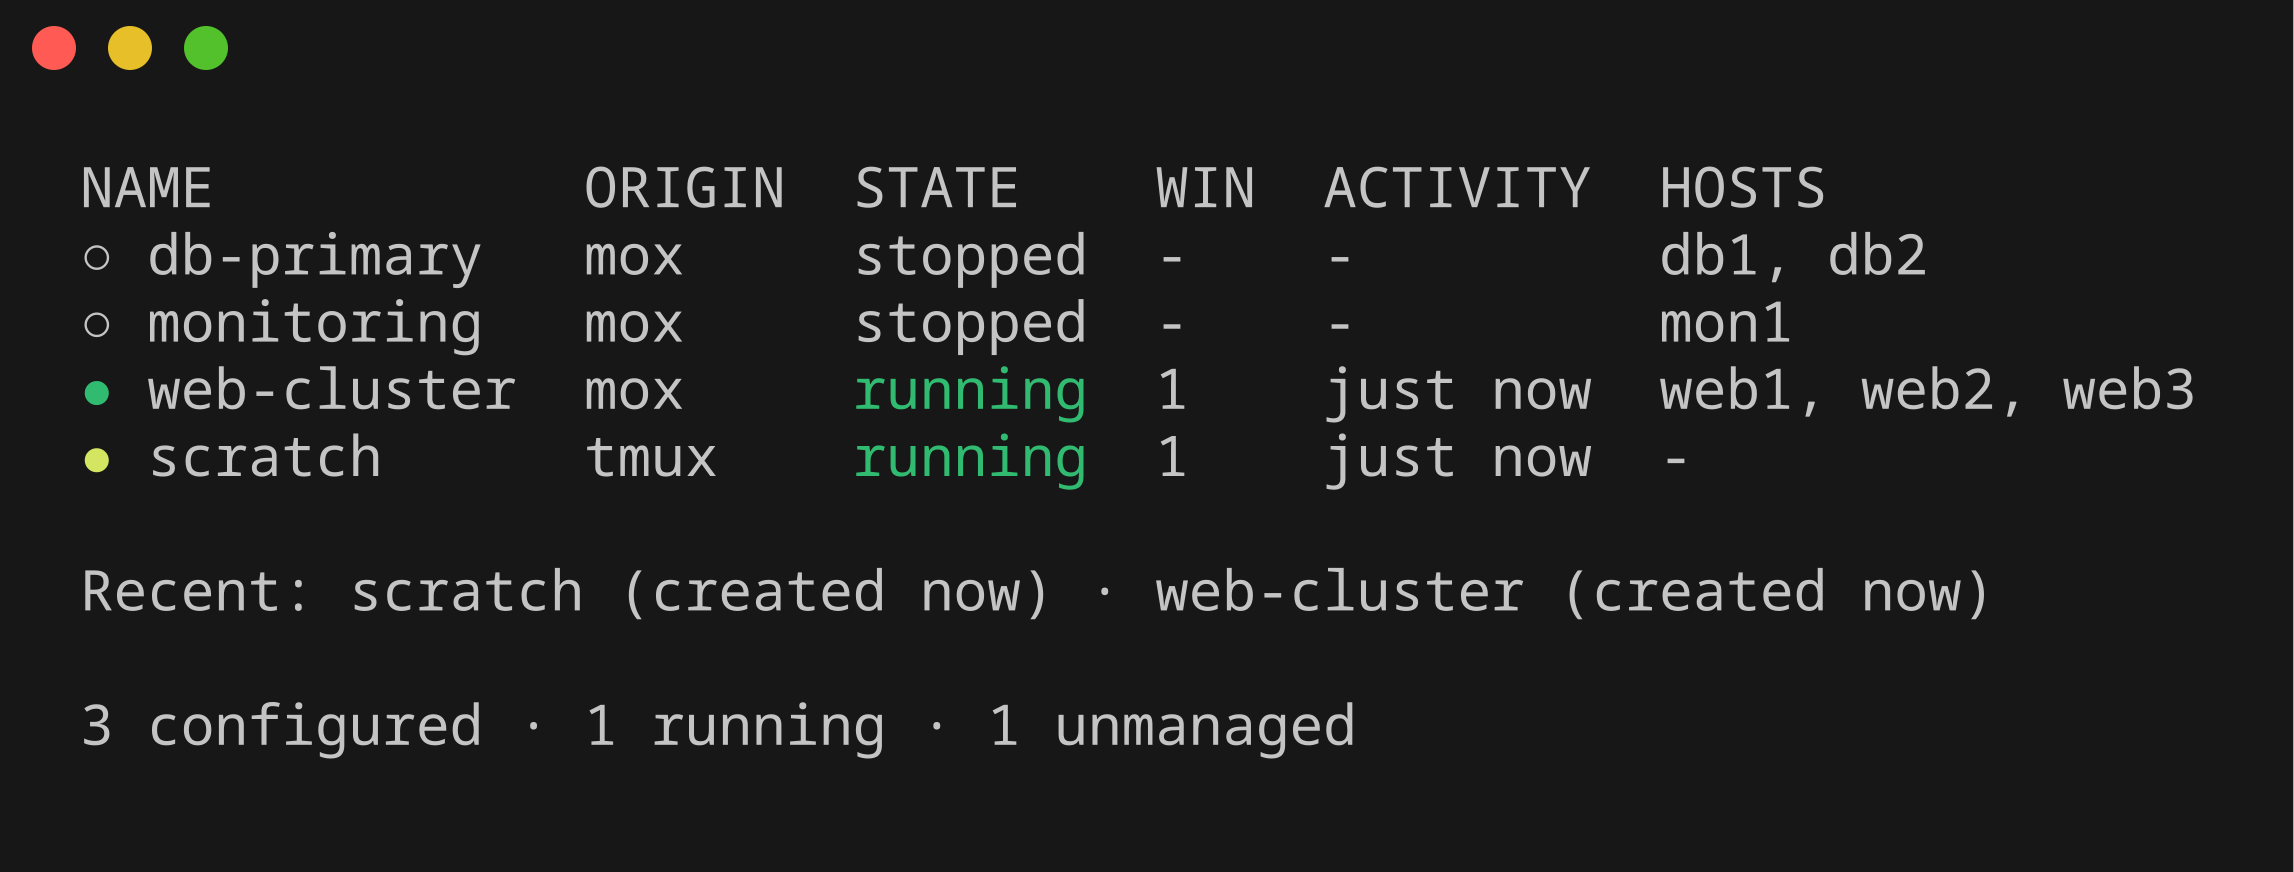
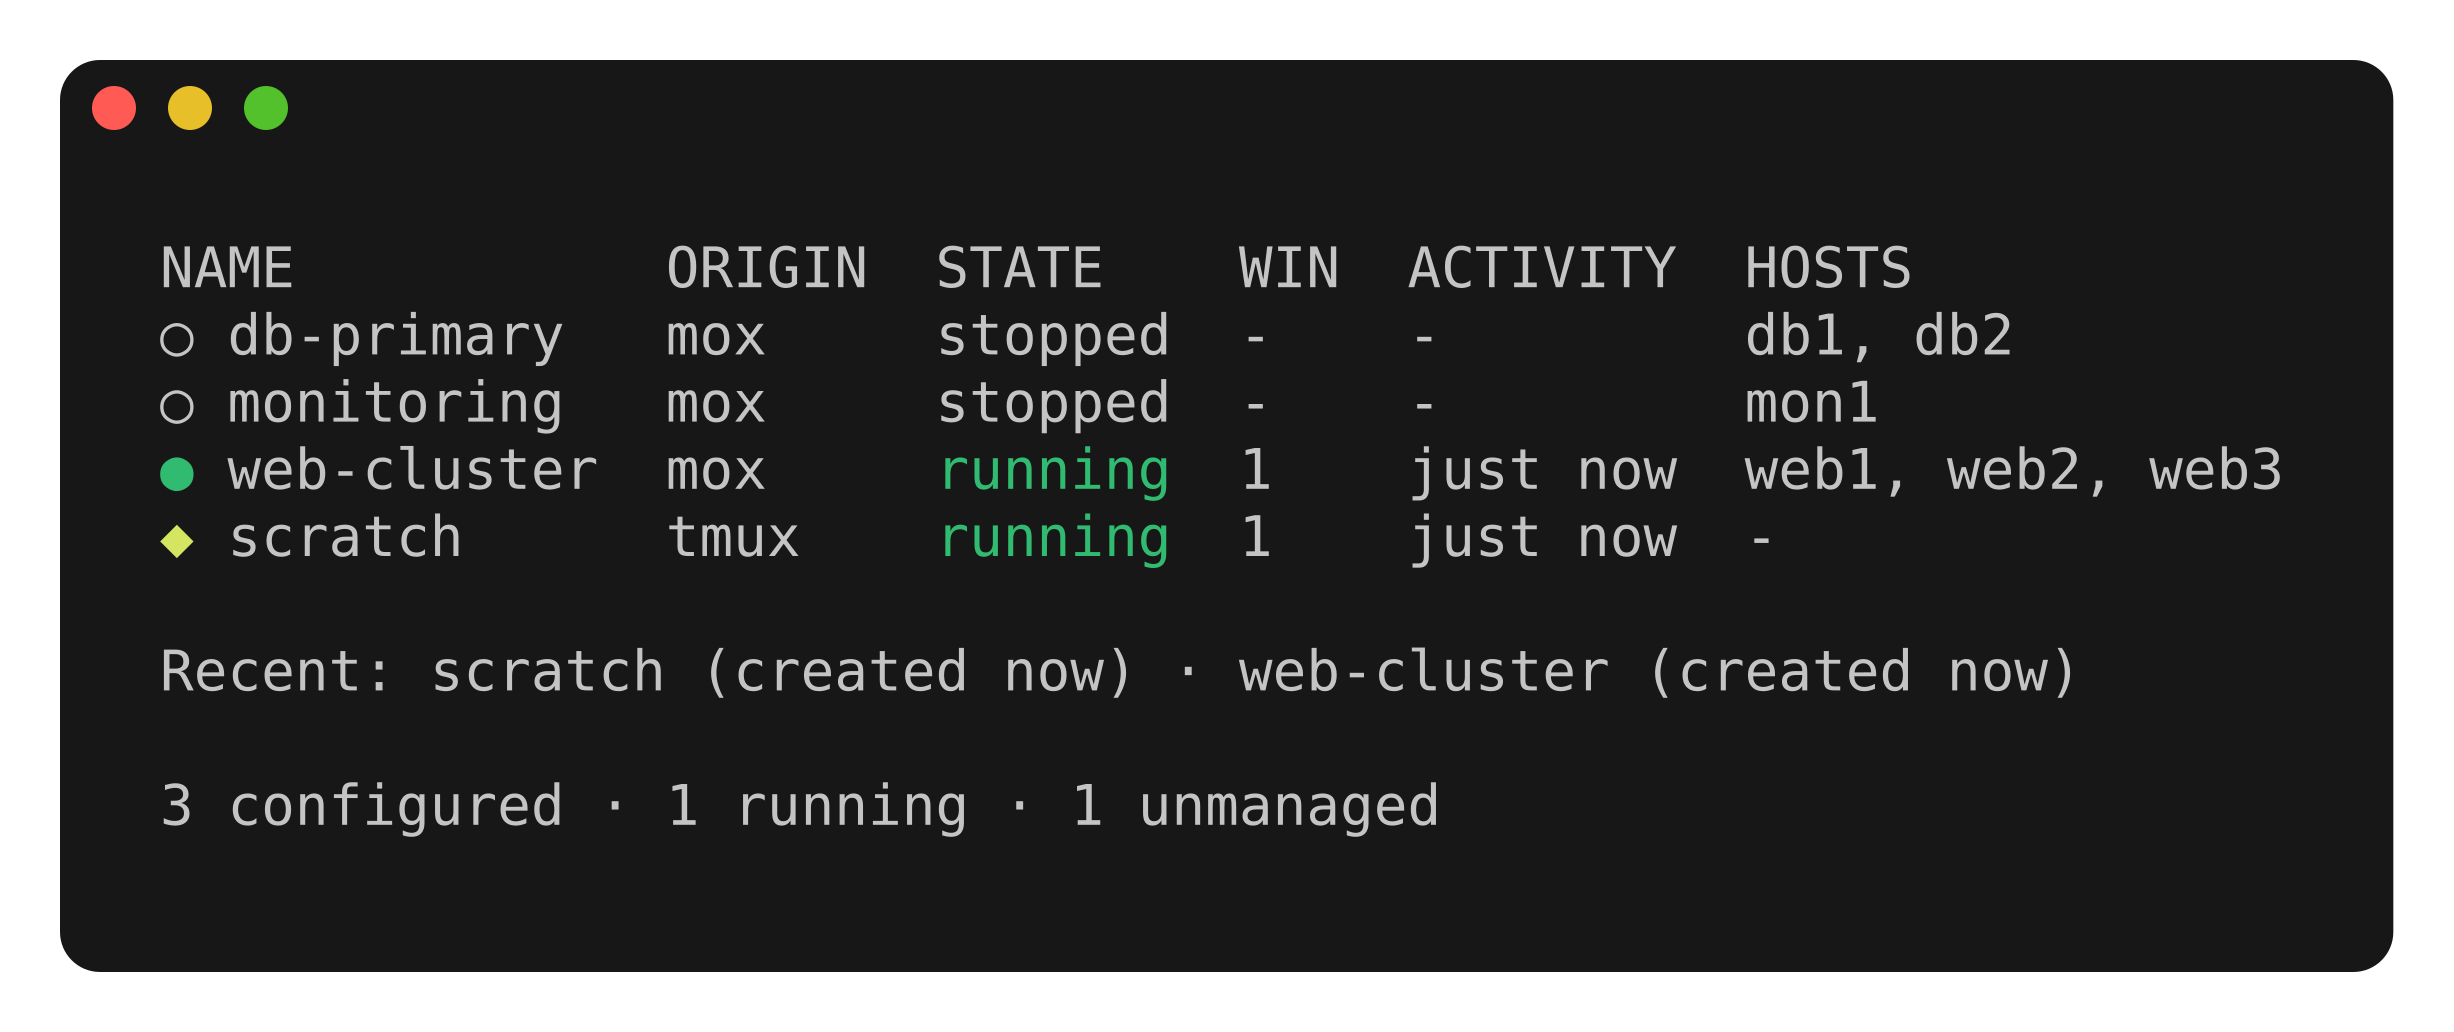
docs: regenerate screenshots for v0.6.1; make them reproducible
All three README screenshots showed the pre-0.6.1 UI: the hub footer
lacked i import, and unmanaged sessions carried the old yellow dot
instead of the diamond. Regenerated from the real TUI models with
staged demo data via a new env-guarded generator
(TestGenerateScreenshots) rendered through charm's freeze; `make
screenshots` reruns the whole pipeline. The retired numbered picker's
screenshot is removed (nothing referenced it).

To color mox list's frame into a file, useColor now honors
CLICOLOR_FORCE=1 (the de facto standard; NO_COLOR still wins), which
also makes `mox list | less -R` colorable.

diff --git a/internal/cli/screenshot_gen_test.go b/internal/cli/screenshot_gen_test.go
@@ -1,0 +1,131 @@
+package cli
+
+// Screenshot frame generator, not a test: `make screenshots` runs this with
+// MOX_SCREENSHOT_DIR set, writing the README screenshots' terminal frames as
+// raw ANSI to that directory. Everything is staged demo data — never real
+// session names. The frames are rendered to PNG by charm's freeze (see the
+// Makefile target). Skipped entirely during normal test runs.
+
+import (
+	"context"
+	"os"
+	"path/filepath"
+	"testing"
+	"time"
+
+	"github.com/charmbracelet/lipgloss"
+	"github.com/muesli/termenv"
+
+	"github.com/bthall/mox/internal/config"
+	"github.com/bthall/mox/internal/history"
+	"github.com/bthall/mox/internal/session"
+)
+
+const screenshotConfigYAML = `sessions:
+    webfarm:
+        hosts: [web1, web2, web3]
+        sync: true
+        arrange: tiled
+        pre:
+            - export TERM=xterm-256color
+    dev:
+        root: /home/demo/dev
+    dbcluster:
+        hosts: [db1, db2]
+        ssh_user: admin
+`
+
+func TestGenerateScreenshots(t *testing.T) {
+	dir := os.Getenv("MOX_SCREENSHOT_DIR")
+	if dir == "" {
+		t.Skip("set MOX_SCREENSHOT_DIR to generate screenshot frames")
+	}
+
+	lipgloss.SetColorProfile(termenv.TrueColor)
+	t.Cleanup(func() { lipgloss.SetColorProfile(termenv.Ascii) })
+	t.Setenv("CLICOLOR_FORCE", "1") // colors mox list's raw-ANSI path into files
+
+	now := time.Now()
+	write := func(name, frame string) {
+		t.Helper()
+		if err := os.WriteFile(filepath.Join(dir, name), []byte(frame), 0o600); err != nil { //nolint:gosec // dev-only generator; dir is the developer's own env var
+			t.Fatal(err)
+		}
+	}
+
+	write("hub.ans", hubFrame(t, now))
+	write("list.ans", listFrame(t, now))
+	write("editor.ans", editorFrame(t))
+}
+
+// hubFrame stages the session hub: a running unmanaged session (◆), the
+// highlighted running webfarm with a live preview, and two stopped sessions.
+func hubFrame(t *testing.T, now time.Time) string {
+	t.Helper()
+	candidates := []session.SessionInfo{
+		{Name: "main", Running: true, Managed: false, Windows: 1, LastActivity: now},
+		{Name: "webfarm", Running: true, Managed: true, Windows: 1, LastActivity: now, Hosts: []string{"web1", "web2", "web3"}},
+		{Name: "dev", Managed: true},
+		{Name: "dbcluster", Managed: true, Hosts: []string{"db1", "db2"}},
+	}
+	sessions := demoConfigSessions(t)
+	m := newHubModel(context.Background(), nil, nil, nil, nil, candidates, sessions, now)
+	m.width, m.height = 110, 30
+	m.sel = 1 // webfarm
+	m.previewName = "webfarm"
+	m.previewWin = "1:sh*"
+	m.previewBody = []string{
+		"\x1b[32m✔ deploy ok\x1b[0m",
+		"\x1b[31m✘ web3 unreachable\x1b[0m",
+		"\x1b[33m⚠ retrying\x1b[0m",
+		"ok: [\x1b[36mweb1\x1b[0m] task 0",
+		"ok: [\x1b[36mweb2\x1b[0m] task 1",
+		"ok: [\x1b[36mweb3\x1b[0m] task 2",
+		"ok: [\x1b[36mweb1\x1b[0m] task 3",
+		"ok: [\x1b[36mweb2\x1b[0m] task 4",
+	}
+	return m.View()
+}
+
+// listFrame stages mox list: configured stopped/running sessions plus one
+// unmanaged (◆) tmux-only session, with the recents footer and summary.
+func listFrame(t *testing.T, now time.Time) string {
+	t.Helper()
+	f, err := os.CreateTemp(t.TempDir(), "list-*.ans")
+	if err != nil {
+		t.Fatal(err)
+	}
+	defer func() { _ = f.Close() }()
+	infos := []session.SessionInfo{
+		{Name: "db-primary", Managed: true, Hosts: []string{"db1", "db2"}},
+		{Name: "monitoring", Managed: true, Hosts: []string{"mon1"}},
+		{Name: "web-cluster", Running: true, Managed: true, Windows: 1, LastActivity: now, Hosts: []string{"web1", "web2", "web3"}},
+		{Name: "scratch", Running: true, Managed: false, Windows: 1, LastActivity: now},
+	}
+	recent := []history.Entry{
+		{Name: "scratch", Action: history.ActionCreated, Time: now},
+		{Name: "web-cluster", Action: history.ActionCreated, Time: now},
+	}
+	renderList(f, infos, recent, now)
+	data, err := os.ReadFile(f.Name())
+	if err != nil {
+		t.Fatal(err)
+	}
+	return string(data)
+}
+
+// editorFrame stages the session editor on webfarm's field form.
+func editorFrame(t *testing.T) string {
+	t.Helper()
+	st := testEditorState(t, screenshotConfigYAML)
+	m := newEditorModel(st, nil, nil, "webfarm")
+	m.width, m.height = 110, 30
+	return m.View()
+}
+
+// demoConfigSessions parses the demo config for the hub's managed lookup.
+func demoConfigSessions(t *testing.T) map[string]*config.Session {
+	t.Helper()
+	st := testEditorState(t, screenshotConfigYAML)
+	return st.cfg.Sessions
+}

diff --git a/internal/cli/tuicolor_test.go b/internal/cli/tuicolor_test.go
@@ -25,7 +25,12 @@ func TestTUIColorProfile(t *testing.T) {
 		t.Errorf("char device: profile = %v, want ANSI256", got)
 	}
 
-	t.Setenv("NO_COLOR", "1")
+	t.Setenv("CLICOLOR_FORCE", "1")
+	if got := tuiColorProfile(&bytes.Buffer{}); got != termenv.ANSI256 {
+		t.Errorf("CLICOLOR_FORCE set: profile = %v, want ANSI256 even for a non-file writer", got)
+	}
+
+	t.Setenv("NO_COLOR", "1") // NO_COLOR beats CLICOLOR_FORCE
 	if got := tuiColorProfile(tty); got != termenv.Ascii {
 		t.Errorf("NO_COLOR set: profile = %v, want Ascii", got)
 	}

diff --git a/internal/cli/color.go b/internal/cli/color.go
@@ -28,6 +28,11 @@ func useColor(w io.Writer) bool {
 	if os.Getenv("NO_COLOR") != "" {
 		return false
 	}
+	// The de facto CLICOLOR_FORCE standard: force color even when piped
+	// (`mox list | less -R`, screenshot generation). NO_COLOR still wins.
+	if os.Getenv("CLICOLOR_FORCE") == "1" {
+		return true
+	}
 	f, ok := w.(*os.File)
 	if !ok {
 		return false

diff --git a/CHANGELOG.md b/CHANGELOG.md
@@ -7,6 +7,11 @@ and this project adheres to [Semantic Versioning](https://semver.org/spec/v2.0.0
 
 ## [Unreleased]
 
+### Added
+
+- `CLICOLOR_FORCE=1` forces color output even when piped (`mox list |
+  less -R`), following the de facto standard. `NO_COLOR` still wins.
+
 ## [0.6.1] — 2026-07-23
 
 ### Fixed